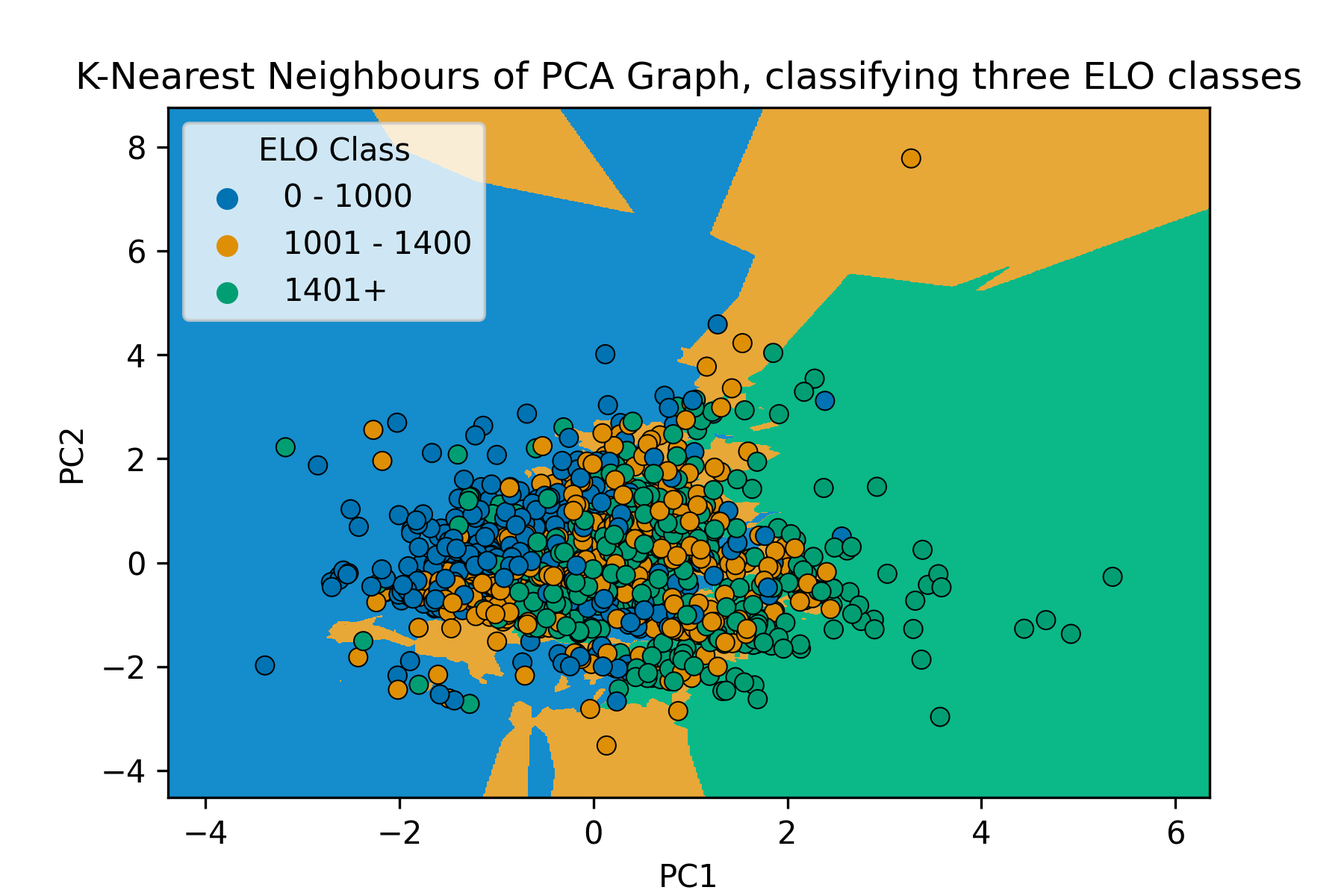
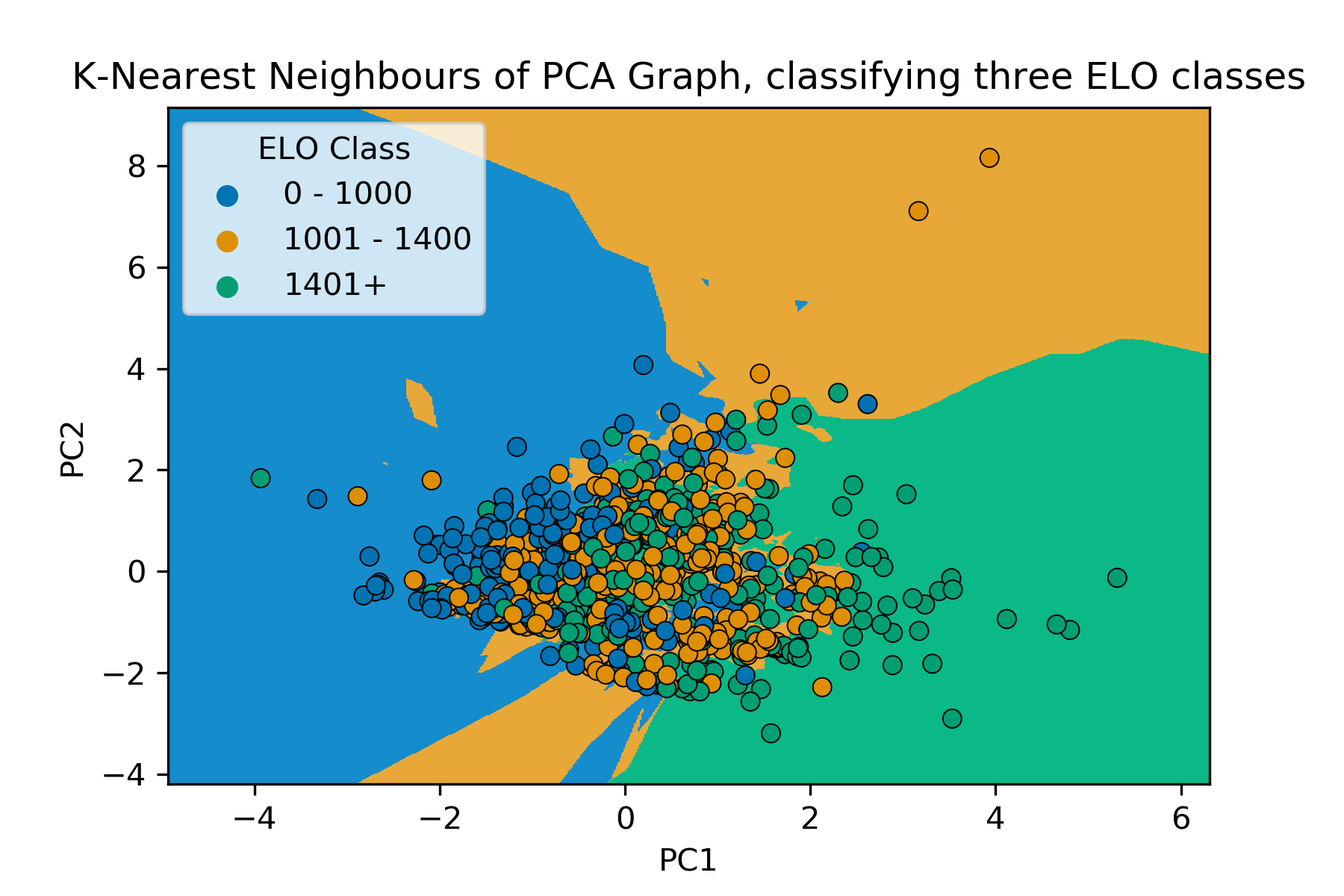
Updates from Overleaf

diff --git a/report/report.tex b/report/report.tex
@@ -76,7 +76,7 @@
 %%
 \section{Overview}
 % 250 words maximum
-Online chess sites receive a huge amount of game data from large volumes of users playing on their sites. Many have large player bases, representing a huge variety in player Elo scores (a number corresponding to skill level). We used data from games played on the online chess website Chess.com to analyse the relevancy of players' Elo in a chess game. A logistic regression model was used to investigate the effect of the difference in Elo on winning a game. Interpreting the regression coefficients provided insight into the strength of this correlation for different Elo classes, and our results were evaluated using a Wald test. \newline
+Online chess sites receive a huge amount of game data from large volumes of users playing on their sites. Many have large player bases, representing a huge variety in player Elo scores (a number corresponding to skill level). We used data from games played on the online chess website Chess.com to analyse the significance of players' Elo in a chess game. A logistic regression model was used to investigate the effect of the difference in Elo on winning a game. Interpreting the regression coefficients provided insight into the strength of this correlation for different Elo classes, and our results were evaluated using a Wald test. \newline
 
 Following this, by using an exponential function "Temptation", we visualised a player's likelihood of playing a specific chess tactic called \textit{en passant} across three different categories of Elo. We then attempted to predict a player's Elo using the context of this \textit{en passant} move. By analysing computer-generated evaluations of the state of the game preceding the move, and by using Temptation as a hyperparameter for a predictive model, we attempted to utilise PCA and a k-Nearest Neighbour (k-NN) algorithm to classify users into three classes of Elo. To evaluate the model's predictive performance we calculated various metrics (accuracy, precision, recall, F1 score). Despite our investigation identifying a correlation between Elo difference and winning, we did not find sufficient evidence that Elo was predictable from the context of an \textit{en passant} move. \newline
 
@@ -91,22 +91,24 @@ All decimal values in this report are provided to 4 decimal places.
 
 \paragraph{Context and motivation}
 
-Online chess sites such as Chess.com allow users to play with friends or strangers, offering a wide variety of chess variants and time controls to play with. Online chess' rise in popularity follows the increase in free time during the COVID-19 pandemic lockdowns, the popularity of Netflix's show 'The Queen's Gambit', and world-ranking players streaming the game on Twitch \cite{The2020ChessBoom} With a sudden increase in online players comes an increase in publicly available game data - this provides a perfect opportunity for an investigation into player's skill (measured by Elo points). In this study, we explore the impact of a player's skill level on a game's direction and patterns in the play styles of players at different Elos. \newline
+Online chess sites such as Chess.com allow users to play with friends or strangers, offering a wide variety of chess variants and time controls to play with. Online chess' rise in popularity follows the increase in free time during the COVID-19 pandemic lockdowns, the popularity of Netflix's show "The Queen's Gambit", and world-ranking players streaming the game on Twitch \cite{The2020ChessBoom} With a sudden increase in online players comes an increase in publicly available game data - this provides a perfect opportunity for an investigation into player's skill (measured by Elo points). In this study, we explore the impact of a player's skill level on a game's direction and patterns in the play styles of players at different Elos. \newline
 
-The particular play style we explore in this study is the context surrounding an \textit{en passant} chess move. Typically, chess tactics are something you aim for, therefore there is the natural assumption that a higher-ranked player would be able to set up certain tactics more consistently than a lower Elo one. One exception to this is the move \textit{En passant}. It is an incredibly situational move, and it heavily relies on a player's opponent to move a certain way for a player to be able to play it in the first place. In the chess scene, particularly in the online chess community, \textit{en passant} has gained a cult-like following\cite{EnPassant}. It's become a popular running joke amongst players to always capture via \textit{en passant} when given the chance, even if this puts them in a worse position than having not chosen that move. Losing an online game results in your Elo rating decreasing, thus most would expect highly rated players to not risk a bad game position, hence not capture \textit{en passant} unless it's beneficial. In this study we explore whether we can use the context surrounding an \textit{en passant}-allowed board state to predict whether a player falls into the low, medium, or high Elo category. \newline
+The particular play style we explore in this study is the context surrounding an \textit{en passant} chess move. Typically, chess tactics are something you aim for, therefore there is the natural assumption that a higher-ranked player would be able to set up certain tactics more consistently than a lower Elo one. One exception to this is the move \textit{en passant}. It is an incredibly situational move, and it heavily relies on a player's opponent to move a certain way for a player to be able to play it in the first place. In the chess scene, particularly in the online chess community, \textit{en passant} has gained a cult-like following\cite{EnPassant}. It's become a popular running joke amongst players to always capture via \textit{en passant} when given the chance, even if this puts them in a worse position than having not chosen that move. Losing an online game results in your Elo rating decreasing, thus most would expect highly rated players to not risk a bad game position, hence not capture \textit{en passant} unless it's beneficial. In this study we explore whether we can use the context surrounding an \textit{en passant}-allowed board state to predict whether a player falls into the low, medium, or high Elo category. \newline
 
 Insight into these areas, particularly if the second investigation proves Elo is predictable from move contexts, may be useful in determining how players in the past compare to today's players. There is much speculation on how historical chess champion Bobby Fischer would compare to current world champion Magnus Carlsen \cite{BobbyFischerVsMagnusCarlsen}, thus if we are able to predict a modern-day Elo for Fischer by inputting his play style information into a model trained on modern games, we may find evidence suggesting how he'd compare.
 
 \paragraph{Previous work}
 
-A number of works in the literature have found a correlation between Elo disparity and winning a chess game. One book proposes a correlation between comparative Elo and winning, whereby the chance of winning against a higher-rated player decreases with a larger Elo difference \cite{PsychologyOfChessSkill}. An article published on the website 'Towards Data Science' also found a correlation between Elo disparity and winning, but only within a range of $\pm 50$ Elo points difference \cite{HowMuchDoesEloMatter}. They found that outside of $\pm 50$ Elo points, the probability of a win did not increase or decrease significantly with a further increase or decrease in Elo \cite{HowMuchDoesEloMatter}. \newline
+A number of works in the literature have found a correlation between Elo disparity and winning a chess game. One book proposes a correlation between comparative Elo and winning, whereby the chance of winning against a higher-rated player decreases with a larger Elo difference \cite{PsychologyOfChessSkill}. An article published on the website "Towards Data Science" also found a correlation between Elo disparity and winning, but only within a range of $\pm 50$ Elo points difference \cite{HowMuchDoesEloMatter}. They found that outside of $\pm 50$ Elo points, the probability of a win did not increase or decrease significantly with a further change in Elo \cite{HowMuchDoesEloMatter}. \newline
 
-Some existing studies investigate and design tests to predict chess proficiency. One paper devises the 'Amsterdam Chess Test', a 5-task chess test which reliably predicts Elo based on a person's answers during each of these 5 chess-related tasks \cite{PsychometricAnalysisChessExpertise}. Another paper suggests eye movements of participants when faced with on-screen chess questions are a successful predictor for Elo \cite{VisualPerceptionRankingChess}. However, there appears to be no literature directly studying the association between a player's response to specific game moves and Elo, and none specifically investigating the context of \textit{en passant} moves.
+Some existing studies investigate and design tests to predict chess proficiency. One paper devises the "Amsterdam Chess Test", a 5-task chess test which reliably predicts Elo based on a person's answers during each of these 5 chess-related tasks \cite{PsychometricAnalysisChessExpertise}. Another paper suggests eye movements of participants when faced with on-screen chess questions are a successful predictor for Elo \cite{VisualPerceptionRankingChess}. However, there appears to be no literature directly studying the association between a player's response to specific game moves and Elo, and none specifically investigating the context of \textit{en passant} moves.
 
 
 \paragraph{Objectives}
 
-Our goals in this study are to investigate whether there is a correlation between a player's Elo, and the moves they play in a game. In our case we are focusing on the move \textit{en passant}, and a player's willingness to play the move if an opportunity presents itself. We will first take a bird's eye view of the overall effects of Elo, and investigate whether a significant gap in Elo affects the chances of winning. Then, we will analyse games containing the move \textit{en passant}, and through the context of the board state try and determine a player's Elo, and indirectly, their chance of winning.
+Our goals in this study are to investigate whether there is a correlation between a player's Elo, and the moves they play in a game. In our case we are focusing on the move \textit{en passant}, and a player's willingness to play the move if an opportunity presents itself. \newline
+
+We will first take a bird's eye view of the overall effects of Elo, and investigate whether a significant gap in Elo affects the chances of winning. Then, we will analyse games containing the move \textit{en passant}, and through the context of the board state try and determine a player's Elo, and indirectly, their chance of winning.
 % What questions are you setting out to answer?
 
 \section{Data}
@@ -121,21 +123,21 @@ We obtained our data from Kaggle.com \cite{Kaggle}, where they provided a datase
 
 
 \paragraph{Data description}
-The dataset records $66,879$ games of chess that took place on Chess.com with varying game modes, time classes, and levels of players. Information about each player is provided, i.e. the usernames, Chess.com profiles, and Elo rating during the match. Information about the game is also provided, i.e. the result, information about the time rules, whether it was rated, and the final chess board in a notation called "FEN". The final column is called the PGN (Portable Game Notation) - a column in a standard format to be easily read by other chess analysers. Within the PGN, there includes a list of the moves that took place during the game. Using this we can simulate and replay exactly how the game was played, and provide further analysis.
+The dataset records $66,879$ games of chess that took place on Chess.com with varying game modes, time classes, and levels of players. Information about each player is provided: their usernames, Chess.com profiles, and Elo rating during a match. Information about the game is also provided: the result, information about the time rules, whether it was rated, and the final chess board in a notation called "FEN". The final column is called the PGN (Portable Game Notation) - a column in a standard format to be easily read by other chess analysers. Within the PGN, there includes a list of the moves that took place during the game. Using this we can simulate and replay exactly how the game was played, and explore further analysis.
 
 
 \paragraph{Data processing}
-For both investigation questions, we removed alternate game modes that were not standard chess (for example, 'Chess960', and all game records if they contained any NaN values. We removed games where the game terminated early by using two filters: determining no major pieces had been moved (by reading the top row of the 'FEN', and removing games with less than 10 total moves (5 per player). We believed any games in these two categories would not be useful to the data analysis. Additionally, we removed games from the 'daily' time class. This was due to these records' 'PGN' column being structured in a different format, meaning daily games would have needed to be analysed separately from other modes. Unlike the rest of the remaining games, 'daily' games had no time pressure on players - thus removing these removes the chance that time pressure may have affected the results as a confounding variable. Due to this, and the fact there was only a small amount of 'daily' games ($\sim9.2\%$ of total games), we removed these from the dataset.\newline
+For both investigation questions, we removed alternate game modes that were not standard chess (for example, "Chess960"), and all game records if they contained any NaN values. We removed games which terminated early by using two filters: determining no major pieces had been moved (by reading the top row of the "FEN"), and removing games with less than 10 total moves (5 per player). We believed any games in these two categories would not be useful to the data analysis. Additionally, we removed games from the "daily" time class. This was due to these records' "PGN" column being structured in a different format, meaning "daily" games would have needed to be analysed separately from other modes. Unlike the rest of the remaining games, "daily" games had no time pressure on players - thus removing these removes the chance that time pressure may have affected the results as a confounding variable. Due to this, and the fact there was only a small amount of "daily" games ($\sim9.2\%$ of total games), we removed these from the dataset.\newline
 
 For the first investigation, we required a binary outcome (winning or losing) in order to use logistic regression, thus we additionally excluded all games which ended in a draw or other indeterminate end-states. \newline
 
-For our second investigation, we utilised various external libraries to assist in defining k-NN hyperparameters. Using the \textit{python-chess} library \cite{python-chess}, we parsed the "PGN" field to filter out games that didn't include an \textit{en passant} opportunity ($n=5,074$), and highlight games where an \textit{en passant} move actually occurred ($n=1,563$). We then used \textit{Stockfish}\cite{StockFish}, an open-source chess game engine, to evaluate how much of an advantage from an initial board state a player would gain. Advantage is counted in centipawns (cp), and is always positive from White point of view. Evaluations were calculated from the following moves: a Stockfish calculated best move, the move the player decided to make, and finally the relevant \textit{en passant} capture. These scores were added to the dataframe. All non-numerical data were converted to numerical data by assigning numerical categories. This was important for standardising the data, performing a PCA and creating the k-NN model. It was also important for the k-NN model that all sample data was independent, therefore we removed games where a player's username already exists in the sample.\newline
+For our second investigation, we utilised various external libraries to assist in defining k-NN hyperparameters. Using the \textit{python-chess} library \cite{python-chess}, we parsed the "PGN" field to filter out games that didn't include an \textit{en passant} opportunity ($n=5,074$), and highlight games where an \textit{en passant} move actually occurred ($n=1,563$). We then used \textit{Stockfish}\cite{StockFish}, an open-source chess game engine, to evaluate how much of an advantage from an initial board state a player would gain. Advantage is counted in centipawns (cp), and is always positive from White's point of view. Evaluations were calculated from the following moves: a Stockfish calculated best move, the move the player decided to make, and finally the relevant \textit{en passant} capture. These scores were added to the dataframe. All non-numerical data were converted to numerical data by assigning numerical categories. This was important for standardising the data, performing a PCA and creating the k-NN model. It was also important for the k-NN model that all sample data was independent, therefore we removed games where a player's username already exists in the sample.\newline
 
 
 \begin{figure*}[p]
   \centering
   \includegraphics[width=\textwidth]{report/images/log_regression_dual.png}
-  \caption{Subplot 1: Each datapoint represents how many Elo points a player is than their opponent during a game, and whether they won (1) or lost (0). The standard logistic function is plotted in red. 'Elo mismatch size' is a measure of the number of Elo points a player's opponent is above them. \newline \newline  
+  \caption{Subplot 1: Each datapoint represents how many Elo points a player is than their opponent during a game, and whether they won (1) or lost (0). The standard logistic function is plotted in red. "Elo mismatch size" is a measure of the number of Elo points a player's opponent is above them. \newline \newline  
   Subplot 2: Each line represents the logistic function plotted for a particular Elo difference class. Information on the odds ratios for each is provided, calculated from $e^{\beta_{1}}$ for each class' regression coefficient $\beta_{1}$. The red line shows the overall standard logistic function from subplot 1, to aid slope comparisons for each class.}
   \label{fds-project-template:fig:log_regression}
 \end{figure*}
@@ -160,9 +162,11 @@ Furthermore, the odds ratio $e^{\beta_{1}} = 1.0108$ shows that for every 1 poin
 
 Figure \ref{fds-project-template:fig:log_regression} Subplot 2 shows the different logistic functions produced for classes of differing Elo, alongside the main model's overall logistic function. The trend for the regression coefficients $\beta_{1}$ typically show that the larger the Elo difference, the smaller the odds ratio $\beta_{1}$ is. Thus for larger differences in Elo, the rate of increase in likelihood of a player beating their opponent decreases, despite the actual likelihood of beating their opponent increasing. \newline
 
-The logistic regression model was estimated using maximum likelihood, so it seemed most appropriate to use a Wald test to test for a relationship between Elo difference and the probability of a win \cite{WaldTest}. We used the null hypothesis $H_{0}: \beta_{1} = 0$ which states there is no statistically significant relationship, and alternative hypothesis $H_{a}: \beta_{1} \neq 0$ which suggests there is a statistically significant relationship. Following the test procedure outlined by Forthofer, Lee and Hernandez \cite{WaldTest}, and a method to calculate the Wald statistic inspired by StackExchange user j\_sack \cite{StackExchangeWaldTest}, we found a Wald statistic of $75.3946$, which gave a p-value of $p<0.01$. Thus we may reject the null hypothesis at the $1\%$ level, concluding there is sufficient evidence to reject the notion that there is not a statistically significant relationship between Elo difference and the probability of winning. \newline
+The logistic regression model was estimated using maximum likelihood, so it seemed most appropriate to use a Wald test to test for a relationship between Elo difference and the probability of a win \cite{WaldTest}. We used the null hypothesis $H_{0}: \beta_{1} = 0$ which states there is no statistically significant relationship between Elo difference and win probability, and alternative hypothesis $H_{a}: \beta_{1} \neq 0$ which suggests there is. Following the test procedure outlined by Forthofer, Lee and Hernandez \cite{WaldTest}, and a method to calculate the Wald statistic inspired by StackExchange user j\_sack \cite{StackExchangeWaldTest}, we found a Wald statistic of $75.3946$, which gave a p-value of $p<0.01$. Thus we may reject the null hypothesis at the $1\%$ level, concluding there is sufficient evidence to reject the notion that there is not a statistically significant relationship between Elo difference and the probability of winning. \newline
 
 \paragraph{Data Analysis: Question 2 - Using the context of an en-passant move to attempt to predict Elo of a player}
+
+In this section, we first provide context on the hyperparameters used, before interpreting our visualisations and analysing and evaluating our results. \newline
 
 A small number of factors can be used as context for the \textit{en passant} move. We believed our model would have the highest predicting power given the most information, thus defined the following hyperparameters to use in our k-NN model:
 
@@ -178,7 +182,7 @@ A small number of factors can be used as context for the \textit{en passant} mov
   \item Probability that a similar grouped player will play an en-passant move
 \end{itemize}
 
-Since player Elos were normally distributed, we used the sample mean ($\bar{X} = 1,240$) and standard deviation ($\sigma = 400$) to derive $3$ Elo classes such that the amount of data classed in each low, medium and high Elo group was in an almost $30:40:30$ ratio. We believed this ratio most effectively balanced not allowing the upper bound of a low Elo too close to the lower bound of a high Elo (thus the 'low', 'medium' and 'high' Elo classes make somewhat intuitive sense) whilst ensuring there wasn't a huge difference in the amount of data categorised in each class. Thus the resulting class boundaries became: $0 - 1000$ Elo, $1001 - 1400$ Elo, and greater than $1401$ Elo. The sample's distribution of each class on different levels of temptation is visualised in Fig. \ref{fds-project-template:fig:ep_distplot}. We defined the function "temptation" to estimate how viable a player would find an \textit{en passant} move, modelled as such:
+Since player Elos were normally distributed, we used the sample mean ($\bar{X} = 1,240$) and standard deviation ($s = 400$) to derive $3$ Elo classes such that the amount of data classed in each low, medium and high Elo group was in an almost $30:40:30$ ratio. We believed this ratio most effectively balanced not allowing the upper bound of a low Elo too close to the lower bound of a high Elo (thus the 'low', 'medium' and 'high' Elo classes make somewhat intuitive sense) whilst ensuring there wasn't a huge difference in the amount of data categorised in each class. Thus the resulting class boundaries became: $0 - 1000$ Elo, $1001 - 1400$ Elo, and greater than $1401$ Elo. The sample's distribution of each class on different levels of temptation is visualised in Fig. \ref{fds-project-template:fig:ep_distplot}. We defined the function "temptation" to estimate how viable a player would find an \textit{en passant} move, modelled as such:
 $$T(\text{move})= 1 -e^{(E_{\text{best}} - E_{\text{move}})/{n}}$$
 This is a very basic model but it ultimately works off the basis that for a player making a move, a very badly evaluated move would be significantly less likely to be chosen than a move close in evaluation to the best move. The number $n$ is a factor to stop the exponential function from growing too fast, and no significant value of $n$ proved to be significantly better than others so we chose $n=220$. Another approach to finding the "temptation" of a move is shown in Oshri, B., \& Khandwala, N. \cite{mcilroy2022learning}.\newline
 
@@ -192,17 +196,17 @@ This is a very basic model but it ultimately works off the basis that for a play
 After plotting this graph, we tried to emulate these results by creating a new field for the probability that someone in a certain Elo would play an en-passant move, named "Quotient". There weren't enough samples in the dataset to get any meaningful information from comparing single values, so we rounded each player's Elo to the nearest $10$ and calculated the quotient using the following formula\footnote[1]{Note: this method uses the Elo to find the quotient which means it's flawed as you cannot 100\% predict Elo using this, see Section 5.}
 $$\mathbb{P}(\text{Elo class}) = \frac{\text{Games with successful e.p. captures}}{\text{Total games with e.p. opportunity}}$$
 
-Once we calculated all our variables, we then split our dataset in a $60:40$ ratio for the training and test set respectively, stratifying by Elo class to reduce the impact of the slight imbalanced class distribution (Fig. \ref{fds-project-template:fig:knn}). Using the training set, we performed a PCA analysis to reduce the dimensionality of the dataset, and then utilised a k-nearest neighbours algorithm to classify the test set.\newline
+Once we calculated all our variables, we then split our dataset in a $60:40$ ratio for the training and test set respectively, stratifying by Elo class to reduce the impact of the slight imbalanced class distribution (Fig. \ref{fds-project-template:fig:knn}). Using the training set, we performed a PCA analysis to reduce the dimensionality of the dataset, and then utilised the k-NN algorithm to classify the test set.\newline
 
-From Fig. \ref{fds-project-template:fig:ep_distplot}, we can see that higher Elo players have a very concentrated area of temptation where they will perform a capture, i.e. when the temptation is close to $0$. The drop-off after being relatively sharp, and turning to a near-zero chance for any move below $T(move)=-20$. On the other hand, both the medium and lower Elo classes have a much spread-out and shallower slope, which indicates that in lower Elos, the novelty of playing en-passant does outweigh the potential repercussions of playing a bad move. However, all three Elo classes seem to follow a normal distribution, implying it would be possible to predict how a player at a certain ELO will play given an en-passant opportunity.\newline
+From Fig. \ref{fds-project-template:fig:ep_distplot}, we can see that higher Elo players have a very concentrated area of temptation where they will perform a capture, i.e. when the temptation is close to $0$. The drop-off after is relatively sharp, and turns to a near-zero chance for any move below $T(move)=-20$. On the other hand, both the medium and lower Elo classes have a much spread-out and shallower slope, which indicates that in lower Elos, the novelty of playing en-passant does outweigh the potential repercussions of playing a bad move. However, all three Elo classes seem to follow a normal distribution, implying it would be possible to predict how a player at a certain ELO will play given an en-passant opportunity.\newline
 
 On the other hand, from the k-NN Chart (Fig. \ref{fds-project-template:fig:knn}), the left and right sides are somewhat defined, but the middle Elo class has a very erratic classifying area, with it being blended in with the other two classes as well. This is likely due to there being a lot of overlap from all three categories in the section where most medium Elo games lie, making it difficult to accurately classify a data point inside of that region from the parameters that we used. From these two graphs, it is clear that although we can somewhat predict the chances of an en-passant move given the Elo of a player, the inverse is not true and using only context surrounding an \textit{en passant} move is not nearly enough to predict someone's Elo without a much more accurate model and further parameters of the players involved. \newline
 
-To further justify this, we created a confusion matrix (Table \ref{tab:confusion_matrix}) detailing the numbers of correct and incorrect predictions of the k-NN model on the test set for each Elo class. 
+To further justify the failure of our predictive model, we created a confusion matrix (Table \ref{tab:confusion_matrix}) detailing the numbers of correct and incorrect predictions of the k-NN model on the test set for each Elo class. 
 \begin{figure*}[t]
   \centering
   \includegraphics[width=\textwidth]{report/images/knn_graph.png}
-  \caption{Each dot in the chart represents a unique player in the dataset, and their Elo is sorted into the corresponding category of Elo class. The algorithm is tuned with between 3 and 7 neighbours and picks the result with the highest accuracy, in this case 5.}
+  \caption{Each dot in the chart represents a unique player in the dataset. Their Elo is sorted into the corresponding category of Elo class, denoted by the colour of the dot. The algorithm is tuned with between 3 and 7 neighbours and picks the result with the highest accuracy, in this case 5.}
   \label{fds-project-template:fig:knn}
 \end{figure*}
 
@@ -243,7 +247,9 @@ found insufficient evidence that a player's Elo was predictable from the context
 
 
 \paragraph{Evaluation of own work: strengths and limitations}
-A caveat of using Stockfish is that since it is a live engine, without utilising significant processing power, which takes increasingly longer amounts of time the stronger you make the engine, it will end up with slightly different results each time it runs. Although we have found that in most cases the data is similar, sometimes it generates a large variation in the graphs that will be shown in this study.\newline
+One strength of our study is that our visualisations convey what we wished to show in an effective, accessible way. Colour palettes were selected to ensure they were readable by those with colour vision deficiencies, and font sizes were increased to be a minimum of 10pt.
+
+A caveat of using Stockfish is that it provides slightly different results each time it runs due to it being a live engine. Although we have found that in most cases the data is similar, sometimes it generates a large variation in the graphs that will be shown in this study.\newline
 
 Another flaw is that while the "quotient"  field measuring the probability of a player playing an \textit{en passant} move cannot be used backwards to predict the Elo of the player, the derivation of the value is taken from rounding the player's Elo. So this study is more of a proof of concept, as it cannot be viable to predict a person's Elo blind. A more viable option is to instead of grouping by similar Elo class, group by individual players instead. However, in this dataset, there is not a large enough sample to viably do this, as the mean number of games per player is only $1.7370$, with a standard deviation of $4.0367$.
 
